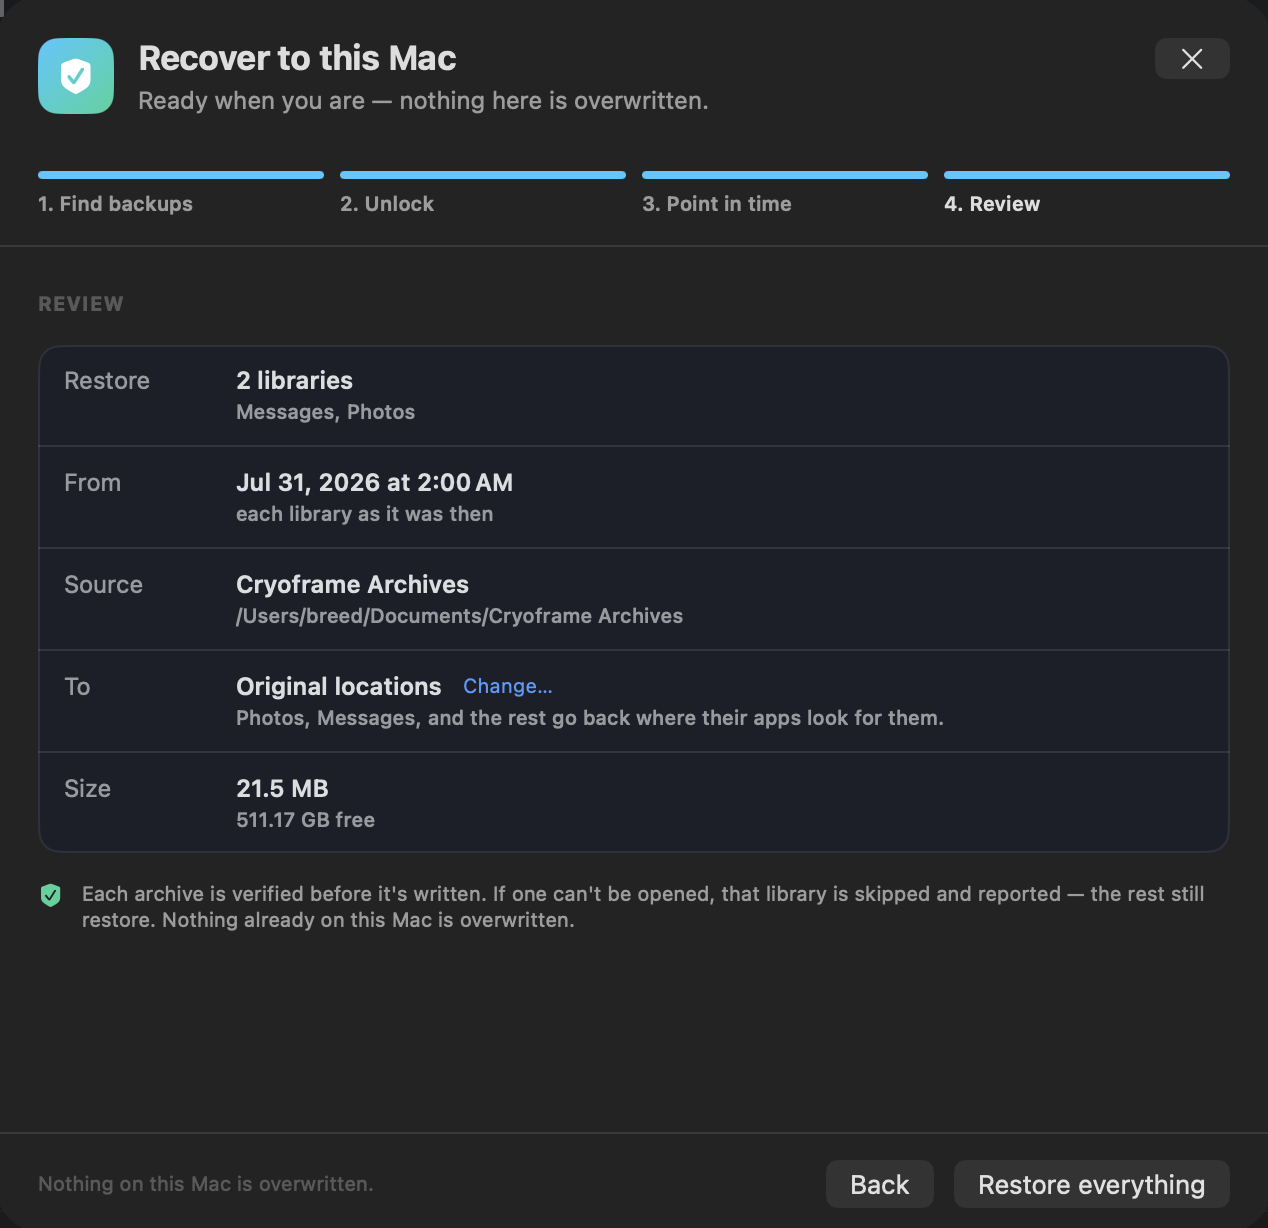
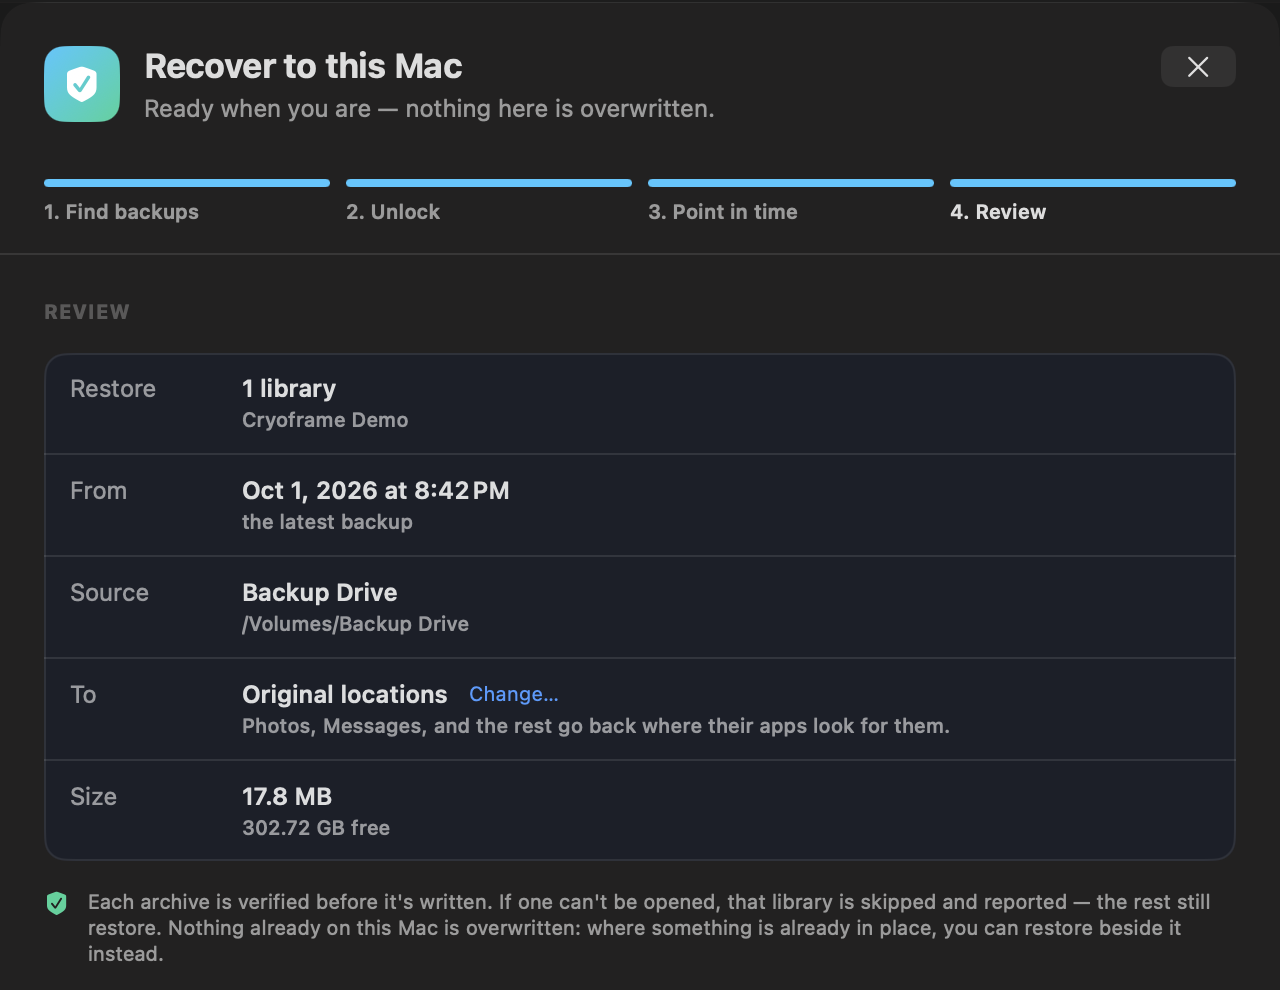
Retake the screenshots for 1.6 and remove the stale wizard ones
The four wizard shots and the wizard diagram showed a job wizard that 1.6
replaced with one editor; the job-menu shot was from 1.5. The new shots come
from the 1.6 app with a demo job, so no real library or drive names appear.

diff --git a/README.md b/README.md
@@ -6,9 +6,8 @@ macOS 15 or later, including macOS 27 · Apple Silicon · MIT licensed
 
 📖 **[User guide](docs/guide/README.md)**: install, jobs, formats, encryption, restoring, and troubleshooting.
 
-<!-- SHOT: main-window.png — the main window: protection dashboard, a decision card, and the job list -->
 <p align="center">
-  <img src="docs/screenshots/main-window.png" alt="Cryoframe main window" width="520">
+  <img src="docs/screenshots/main-window.png" alt="The main window: the protection dashboard says You're protected, above the job list" width="560">
 </p>
 
 ---
@@ -56,8 +55,6 @@ It also verifies. Every archive gets a checksum manifest, and the strong mode mo
 - Keeps the Mac awake while a backup runs, and can optionally wake it for a scheduled run, so unattended backups actually finish.
 - A menu-bar status item and notifications, so you know at a glance whether the last run succeeded, scheduled ones included.
 - Owns its snapshots end to end. It never touches Time Machine's snapshots.
-
-<!-- SHOT: rehearse-recovery.png — a job's ⋯ menu with Verify, Run restore drill, Rehearse recovery -->
 
 ## Supported libraries
 
@@ -126,7 +123,9 @@ Press New Job. The editor opens with quick-start presets ("Photos, nightly", "Mu
 - **Keep**: each backup keeps one up-to-date copy (a live mirror) or dated versions, as disk images or zip files, with a rule for how many versions to keep.
 - **Details**: encryption, how each backup is checked, and what to do if the library's app is open.
 
-<!-- SHOT: editor-create.png — the job editor in create mode with quick-start presets -->
+<p align="center">
+  <img src="docs/screenshots/editor-create.png" alt="The new-job editor's quick-start presets: Photos nightly, Music kept up to date, Photos and Music, or start from scratch" width="620">
+</p>
 
 Before a new job's first backup, and before an edit is saved, a summary says what will happen to the backups already at each destination.
 
@@ -150,22 +149,22 @@ Two doors, because there are two situations.
 
 **Restore (⌘R)** is for "I need that library back." Pick a library, and its versions appear on a timeline, each night with its size and how it moved. Choose one and bring it back beside your live library (the default, which changes nothing you have now) or in place over it. You can also open a version and pull out a handful of files instead of the whole thing.
 
-<!-- SHOT: restore-timeline.png — the restore timeline with badges, including a Kept version, and the Find a File button -->
 <p align="center">
-  <img src="docs/screenshots/restore-timeline.png" alt="The restore timeline: a library's versions by night, each with its size, and badges showing which were restore-tested or checksum verified" width="640">
+  <img src="docs/screenshots/restore-timeline.png" alt="The restore window: a library's versions on a timeline, with the Find a File button" width="620">
 </p>
 
 A version a restore drill has opened is marked *Restore-tested*; one whose checksums were re-read is marked *Checksum verified*. A version nothing has checked yet carries no badge, because Cryoframe won't claim more than it knows.
 
 Not sure which night still had the file? **Find a File…** in Restore searches each version's list of files for a name or a path, newest first, and opens the version at the match so you can extract it. Versions made before 1.6 have no list; open those with **Look inside…**.
 
-<!-- SHOT: find-a-file.png — Find a File with a query, matches in two versions, and one older version with no list -->
+<p align="center">
+  <img src="docs/screenshots/find-a-file.png" alt="Find a File: a search that finds the same file in three saved versions" width="620">
+</p>
 
 **Recover to this Mac (⇧⌘R)** is for a new or wiped Mac. It walks four steps: find the drive or folder holding your backups, unlock the encrypted libraries with the recovery-key file you exported, choose the moment to rebuild to, and restore. Every library comes back as it was at that moment. A library that did not run that night contributes the last version it had before then, never a newer one. Otherwise you would get a Mac assembled out of different days.
 
-<!-- SHOT: recovery-point-in-time.png — Recover to this Mac: the point-in-time slider with each library's version -->
 <p align="center">
-  <img src="docs/screenshots/recovery-point-in-time.png" alt="Choosing a moment to rebuild to: one slider, and each library shows the version it had at that moment" width="560">
+  <img src="docs/screenshots/recovery-point-in-time.png" alt="Recover to this Mac: choosing a moment, with the version each library had then" width="620">
 </p>
 
 In this example the moment is 2:00 AM on July 31. Photos, which runs nightly, contributes its July 31 version. Messages runs every few days at 3:00 AM, so its last version before that moment is the 28th; restoring its 31st would pull in changes that had not happened yet.

diff --git a/docs/guide/restoring.md b/docs/guide/restoring.md
@@ -29,8 +29,7 @@ A live mirror has no timeline. It keeps one copy, updated in place, so there is 
 
 Select a version and the bar at the bottom names exactly what will happen when you restore it.
 
-<!-- SHOT: restore-timeline.png — the restore timeline with badges, including a Kept version, and the Find a File button -->
-![The restore timeline: versions by night with sizes, and badges for restore-tested and checksum-verified](../screenshots/restore-timeline.png)
+![The restore window: a library's versions on a timeline, with the Find a File button](../screenshots/restore-timeline.png)
 
 If an archive is encrypted, enter its passphrase. If the passphrase is still in this Mac's Keychain it is filled in for you. If not, get it from your recovery file. See [Encryption and recovery keys](encryption-and-recovery-keys.md).
 
@@ -60,7 +59,7 @@ When you know the file you want but not which night still had it, click Find a F
 
 Cryoframe searches the list of files saved with each version, newest first, and shows what matched in each, with Stop if you've seen enough. Show opens that version in the file browser at the match, so you can extract it. Encrypted versions use the passphrase you type, and the one saved on this Mac for that job is tried too.
 
-<!-- SHOT: find-a-file.png — Find a File with a query, matches in two versions, and one older version with no list -->
+![Find a File: a search that finds the same file in three saved versions](../screenshots/find-a-file.png)
 
 Not every version can answer:
 
@@ -80,13 +79,11 @@ If the Mac is new, or you have wiped this one, you are not looking for one libra
 
 **3. Point in time.** One slider chooses the moment to rebuild to, and each library shows the version it will contribute.
 
-<!-- SHOT: recovery-point-in-time.png — Recover to this Mac: the point-in-time slider with each library's version -->
-![Choosing a moment: one slider, and each library shows the version it had then](../screenshots/recovery-point-in-time.png)
+![Recover to this Mac: choosing a moment, with the version each library had then](../screenshots/recovery-point-in-time.png)
 
 This is the part worth understanding. Libraries rarely run on the same nights: Photos might back up nightly while a project folder runs weekly. When you choose a moment, each library contributes the newest version it had **at or before** that moment, never a later one. Pick Wednesday and a library whose last run was Monday gives you its Monday version, because that is what existed on Wednesday. Its Friday version holds changes that had not happened yet, so using it would rebuild a Mac that never existed. If a library is newer than the moment you chose and has nothing that old, it gives you its earliest version and says so.
 
-<!-- SHOT: recovery-review.png — Recover to this Mac: the review step, with a Restore alongside choice for a clash -->
-![The review step: what will be restored, from when, to where, and how much space it needs](../screenshots/recovery-review.png)
+![Recover to this Mac: the review of what will be restored, from where, and how much room it needs](../screenshots/recovery-review.png)
 
 **4. Review.** Check what is about to happen. By default each library goes back to where its app looks for it, so Photos and Messages simply open what came back; use Change to put everything in one folder instead. Nothing already on this Mac is overwritten, each archive is verified before it is written, and a library that cannot be opened is skipped and reported while the rest still restore. If something is already where a library would go, you can restore that library, or all of them, alongside it.
 

diff --git a/docs/guide/getting-started.md b/docs/guide/getting-started.md
@@ -30,7 +30,7 @@ You can skip this and run every job by hand with Run now. Scheduling is only nee
 
 Click New Job to open the job editor. You can also drag a folder onto the window to start one with that folder already in it.
 
-<!-- SHOT: editor-create.png — the job editor in create mode with quick-start presets -->
+![The new-job editor's quick-start presets: Photos nightly, Music kept up to date, Photos and Music, or start from scratch](../screenshots/editor-create.png)
 
 **Quick start.** A new job begins with presets: "Photos, nightly", "Music, kept up to date", "Photos and Music", or start from scratch. A preset fills in everything below it, and you can change any of it.
 
@@ -52,8 +52,7 @@ Once you have a job, the top of the window is a status panel that answers "am I 
 
 A few cards can appear under it when something needs a decision from you: backups from an earlier version of Cryoframe that a job is keeping until you say otherwise (see [Versions, retention, and storage](versions-retention-storage.md)), and a reminder when your recovery file or printed recovery kit is out of date (see [Encryption and recovery keys](encryption-and-recovery-keys.md)).
 
-<!-- SHOT: main-window.png — the main window: protection dashboard, a decision card, and the job list -->
-![The main window with the protection dashboard, job list, and activity log](../screenshots/main-window.png)
+![The main window: the protection dashboard says You're protected, above the job list](../screenshots/main-window.png)
 
 ## What to read next
 

diff --git a/docs/guide/formats-and-destinations.md b/docs/guide/formats-and-destinations.md
@@ -45,7 +45,7 @@ Click Add destination… in the job editor and choose a folder. Cryoframe works 
 - a folder on a network share,
 - or a cloud-sync folder, which can also be picked from the Cloud folders menu.
 
-<!-- SHOT: add-destination.png — the Copies go to section after Add destination…, with the main badge and the Cloud folders menu -->
+![Copies go to: a connected drive set as the main destination, with its free space and the size to back up](../screenshots/add-destination.png)
 
 A destination is known by its drive's volume UUID as well as its path. A drive that's been renamed, or mounts as "T7 1" because another drive took its name, is still found. A different drive that happens to have the same name isn't used by mistake.
 
@@ -92,8 +92,6 @@ A cloud-sync folder is a fine *second* copy for off-site reach. For the main des
 ## Drives that take turns
 
 Rotating backup drives (one at home, one away, swapped every so often) is a good way to keep a copy off-site. In the job editor, add each drive as a destination, then open one drive's menu and choose Takes turns with and the other drive. The pair counts as one destination: each backup goes to whichever drive is connected, and the one that's away is shown as "away" rather than as a problem. Stop taking turns splits them again.
-
-<!-- SHOT: takes-turns.png — a destination's menu with Takes turns with, and a pair showing the takes turns badge and one drive away -->
 
 ### Two drives with the same name, from 1.5
 

diff --git a/docs/guide/encryption-and-recovery-keys.md b/docs/guide/encryption-and-recovery-keys.md
@@ -51,7 +51,7 @@ A recovery file holds passphrases. It doesn't say where your backups are, and so
 
 Click Print Recovery Kit… in Settings ▸ Security. The kit lists your jobs, where each keeps its backups (with each drive's name and volume UUID), how to open each kind of backup without Cryoframe, and when you last exported a recovery file, with blank lines to write where you keep the kit and the recovery file. It holds no passphrases.
 
-<!-- SHOT: recovery-kit.png — the Print a recovery kit dialog, with the passphrase box unticked -->
+![The Print a recovery kit dialog: the kit lists your jobs and how to open them, and holds no passphrases](../screenshots/recovery-kit.png)
 
 If you want the passphrases on paper too, tick "Also print the passphrases, on a separate page". Cryoframe then warns you before printing that page, because anyone holding it can open your encrypted backups. The page goes through the print queue like any other, and macOS keeps a copy of each print job's file for about a day afterward. The PDF menu in the print panel (Save as PDF, Save to iCloud Drive, Mail, Preview) writes or sends a copy, so choose a printer, not PDF. The choice is never remembered; the box starts unticked every time.
 

diff --git a/docs/guide/health-and-verification.md b/docs/guide/health-and-verification.md
@@ -58,8 +58,6 @@ What it adds is the question no per-archive check can answer: **is everything yo
 
 Rehearsals run monthly, and you can run one at any time from a job's ⋯ menu (Rehearse recovery…). Only the newest version of each library is opened, so the work depends on how much you protect rather than how long you have kept it. Turn the schedule off in Settings ▸ General ▸ Running.
 
-<!-- SHOT: rehearse-recovery.png — a job's ⋯ menu with Verify, Run restore drill, Rehearse recovery -->
-
 ### Stopping a check
 
 While a job's archives are being checked, its row shows Stop. A check, drill, or rehearsal you stop doesn't count: it isn't recorded as a pass, no version gets a badge from it, and the last check that finished still stands. Anything it had already found wrong is still listed, with how many archives it got through. Stop never interrupts a disk image while macOS is attaching it; the attach finishes and is then detached.

diff --git a/docs/guide/versions-retention-storage.md b/docs/guide/versions-retention-storage.md
@@ -48,7 +48,7 @@ The Storage button at the top of the window shows, for each job, how much space 
 
 This is the place to look before a disk fills. If a job is using more than you want, tighten its retention policy, and the next run prunes down to the new limit.
 
-<!-- SHOT: storage.png — Storage with a job expanded: versions, a Kept badge, a destination's run trend, and a cloud folder's upload status -->
+![Storage: a job's total, its versions on one drive, and the trend of its last runs](../screenshots/storage.png)
 
 ### Run trend
 
